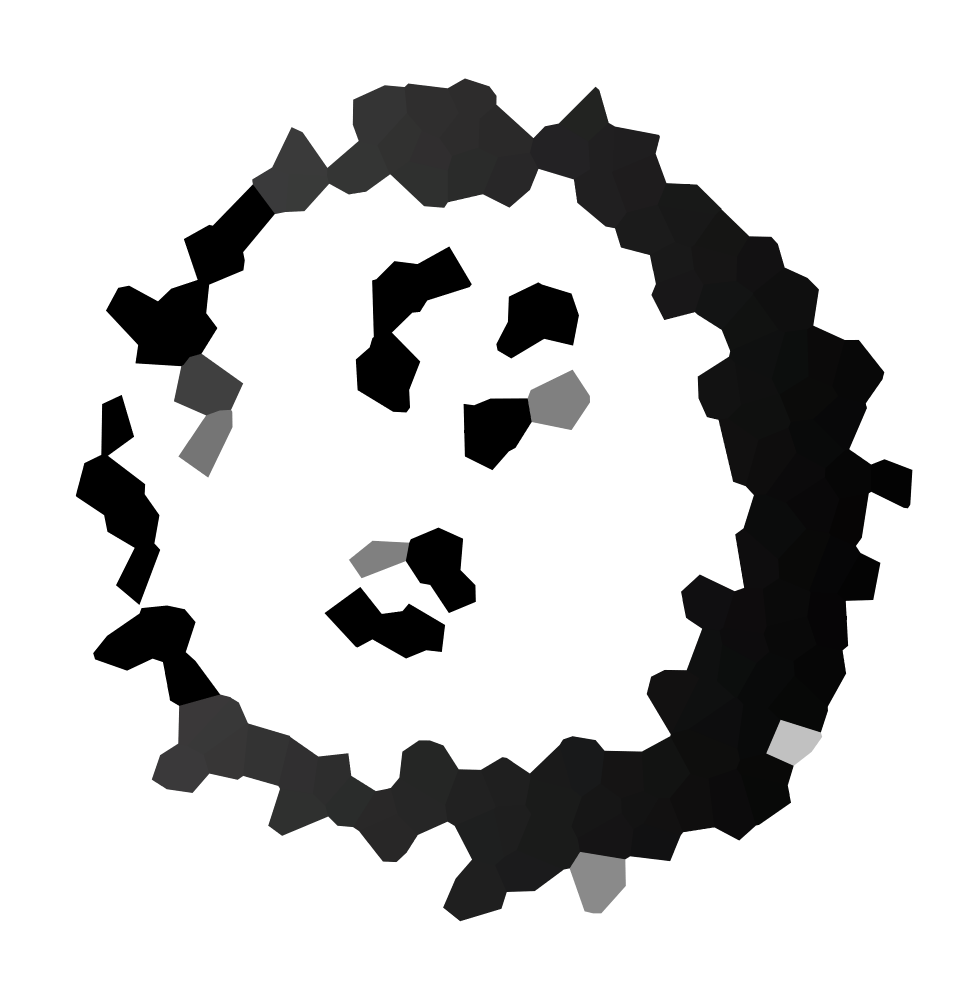
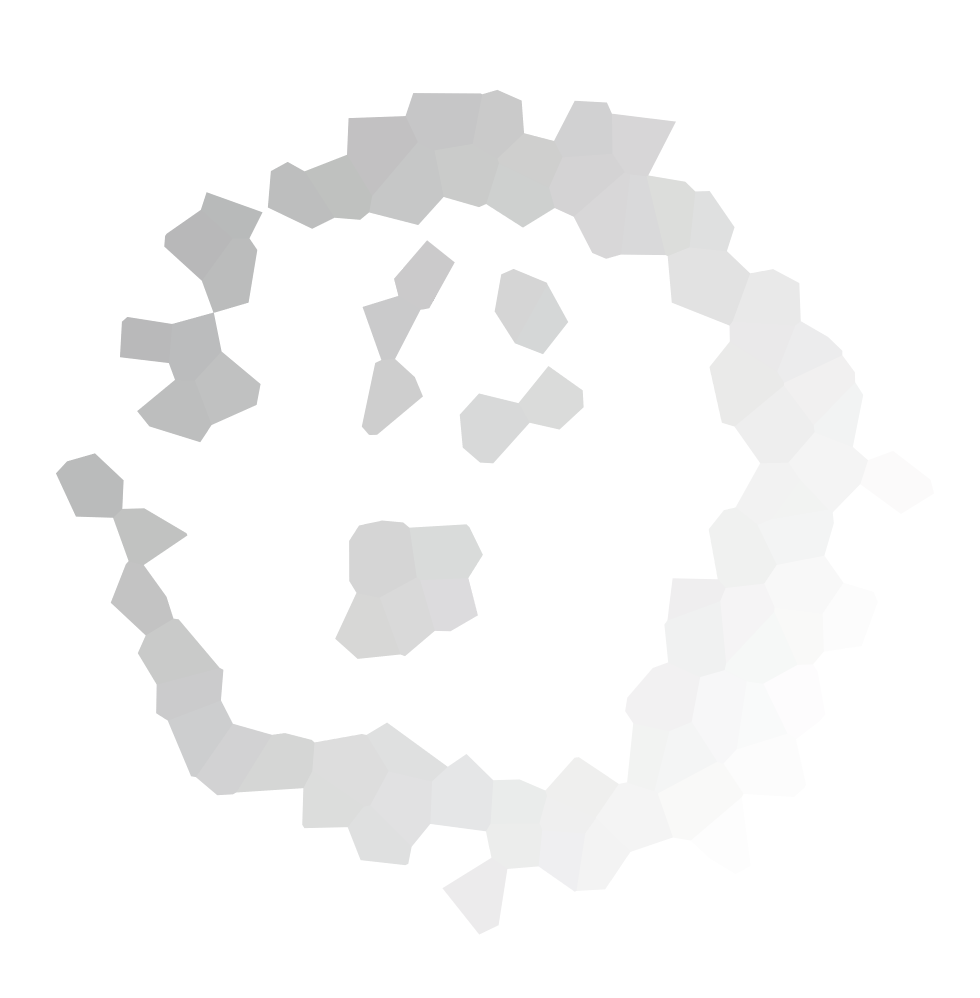
re-aligned elements for mobile

Changed region(s): [[0.0612, 0.0621, 0.949, 0.9319], [0.3367, 0.497, 0.4898, 0.6834]]

diff --git a/css/home-style.css b/css/home-style.css
@@ -30,23 +30,24 @@ body {
 
 /* Typing Animation */
 .type-name {
-    position: relative; 
-    margin: 1% 37.33% auto;
-    color: black;
-    font-size: 8vw;
-    text-align: center;
-    overflow: hidden;
+  position: relative; 
+  margin: auto;
+  color: black;
+  font-size: 8vmax;
+  text-align: center;
+  overflow: hidden;
 }
 .anim-typewriter {
   animation: typewriter 1s steps(6) 1s 1 normal both,
       blinkTextCursor 500ms steps(11) 7 normal;
   animation-delay: 800ms;
   border-right: 3px solid transparent;
-  padding-left: .5%;
+  padding-left: 1.5vmax;
 }
 @keyframes typewriter {
   from{width: 0%;}
-  to{width: 26%;}
+  to{width: 27vmax;}
+
 }
 @keyframes blinkTextCursor {
   from{border-right-color: #000000;}
@@ -64,16 +65,16 @@ body {
 }
 @keyframes breakline {
   from {
-    left:50%;
+    margin:auto;
     width:0%;
   }
   to {
-    left:35%;
-    width:30%;
+    margin: auto;
+    width:27vmax;
   }
 }
 
-nav {
+.nav-bar {
   display: flex;
   margin: auto;
   justify-content: space-around;
@@ -84,11 +85,11 @@ nav ul {
   list-style: none;
   margin: auto;
 }
-nav ul li {
+.nav-bar ul li {
   padding: .2em 1em;
-  font-size: 4vw;
+  font-size: 3.5vmax;
 }
-nav ul li a {
+.nav-bar ul li a {
   text-decoration: none;
   display: inline-block;
   text-align: center;
@@ -112,6 +113,16 @@ nav ul li a {
 @keyframes textclip {
   to { background-position: 200% center; }
 }
+
+#bio {
+  margin-top: 2%;
+  margin-left: 35%;
+  text-align: right;
+  font-size: 1em;
+  width: 400px;
+  background-color: none; #f7e3b5;
+}
+
 
 
 .home {
@@ -146,12 +157,12 @@ nav ul li a {
 
 .headshot {
   z-index: -1;
-  position: absolute;
+  position: fixed;
   bottom: 0;
   left: 1%;
   max-height: 90%;
   max-width: 57%;
-  opacity: 75%;
+  opacity: 71%;
   -moz-user-select: none;
   -webkit-user-select: none;
   user-select: none;

diff --git a/home.html b/home.html
@@ -3,14 +3,14 @@
   <head>
     <meta charset="UTF-8">
     <meta name="viewport" content="width=device-width, initial-scale=1.0">
-    <link rel="stylesheet" href="./css/homestyle.css">
+    <link rel="stylesheet" href="./css/home-style.css">
     <script src="main.js"></script>
     <title>damonotero.com</title>
   </head>
   <body class="body-light" id="page-background">
     <div id="page-container">
       <div class="nightmode-off" id="nightmode-button"></div>
-      <img class="headshot" src="./img/headshot recolor.png">
+      <img class="headshot" src="./img/headshot recolor transp.png">
       <!--<img class="home" src="./img/home.svg" alt="Go Home">-->
 
       <p class="type-name anim-typewriter">damon.</p>
@@ -21,6 +21,9 @@
           <li><a href="#">tech</a></li>
         </ul>
       </nav>
+
+
+
     </div>
 
     <script src="main.js"></script>

diff --git a/index.html b/index.html
@@ -3,7 +3,7 @@
 <head>
   <meta charset="UTF-8">
   <meta name="viewport" content="width=device-width, initial-scale=1.0">
-  <meta http-equiv="refresh" content="0; URL='home.html'" />
+  <meta http-equiv="refresh" content="0; URL='home.html'">
   <title>damonotero.com Damon Otero</title>
 </head>
 <!--
